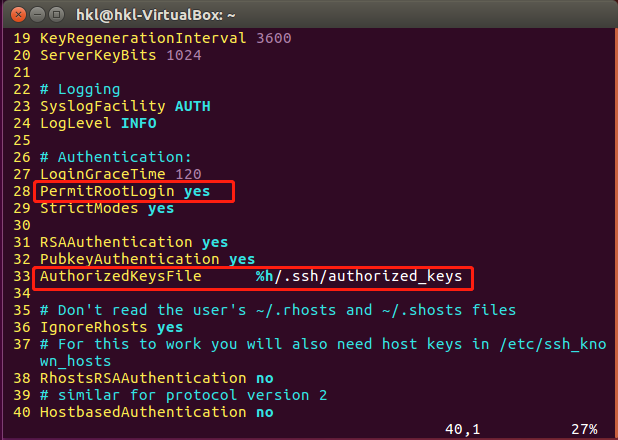
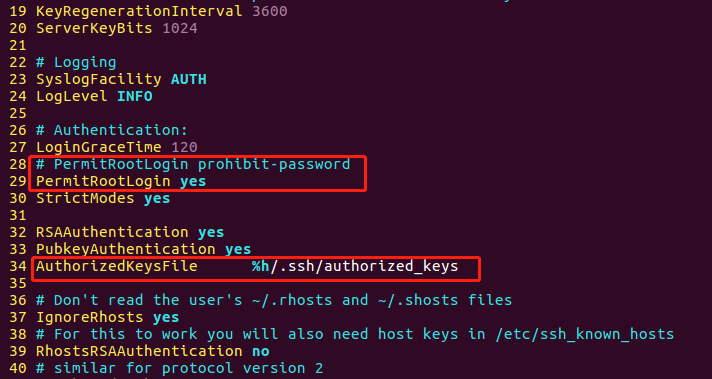
更正脚本代码缺陷，完善实验报告

Changed region(s): [[0.0, 0.0, 1.0, 1.0]]

diff --git a/实验 6/实验6.md b/实验 6/实验6.md
@@ -31,6 +31,10 @@
 
     ![](img/anon_no_up.png)
 
+    - 第一张图中显示，使用ftp必须要切换到相应目录下才能下载文件，而lftp可以指定路径直接下载文件
+
+    ![](img/lftp1.png)
+
 - 配置一个支持用户名和密码方式访问的账号，该账号继承匿名访问者所有权限，且拥有对另1个独立目录及其子目录完整读写（包括创建目录、修改文件、删除文件等）权限
     - 在sammy用户的目录下出现了匿名用户目录下的文件，可证明继承匿名者访问权限
 
@@ -42,9 +46,13 @@
 
     ![](img/rnm_del_mkd.png)
 
-- FTP用户不能越权访问指定目录之外的任意其他目录和文件
+- FTP用户不能越权访问指定目录之外的任意其他目录和文件（**注意**：不是通过 绝对路径 方式来遍历，而是验证通过 相对路径 （例如 cd ../../../../ ）方式无法翻出 FTP 服务器指定的当前用户的 家目录 访问到 家目录及其所有子目录 以外的任何其他目录）
 
     ![](img/no_out.png)
+
+    - 如果需要在命令行使用 FTP 客户端，首选不是 ftp ，而是另一款需要单独安装的 lftp
+
+    ![](img/lftp.png)
 
 - 匿名访问权限仅限白名单IP来源用户访问，禁止白名单IP以外的访问
 
@@ -70,7 +78,7 @@
 
     ![](img/nfs_dh.png)
 
-    - host的`/etc/exports`文件中，设置home目录为可读可写，general目录为只读
+    - host的`/etc/exports`文件中，设置home目录为可读可写，general目录为只读（**注意**：设置home目录为 NFS 共享可读可写是非常危险的一件事情，会破坏 NFS 服务器上用户家目录的权限设置。以后应避免！！）
 
     ```
 
@@ -86,7 +94,8 @@
 
 - 客户端共享目录中文件、子目录的属主、权限信息和在NFS服务器端上查看到的信息一样吗？
 
-    - 客户端与服务器端一致
+    - 客户端与服务器端一致的只是 uid 和 gid ，不同主机上的相同 uid 和 gid 并不意味着映射到相同的 用户名 和 组名
+
     - client
 
     ![](img/home_no_squash_clt.png)
@@ -275,6 +284,9 @@
 
 ## bash-cheatsheet
 
+
+- 因脚本在Windows和Linux系统间拷贝，导致格式问题如“$'\r': command not found”，可以使用如下指令将脚本转换为Linux格式
+    > dos2unix "filename"
 - [How to include file in a bash shell script](https://stackoverflow.com/questions/10823635/how-to-include-file-in-a-bash-shell-script)
 - [Check whether a user exists](https://stackoverflow.com/questions/14810684/check-whether-a-user-exists)
 - [Check if a directory exists in a shell script](https://stackoverflow.com/questions/59838/check-if-a-directory-exists-in-a-shell-script)

diff --git a/实验 6/ssh免密root登录.md b/实验 6/ssh免密root登录.md
@@ -6,9 +6,13 @@
 
     ` sudo service ssh start`
 
-- 更改ssh配置文件 `/etc/ssh/sshd_config`
+- 更改ssh配置文件 `/etc/ssh/sshd_config`，注意保留默认配置和修改痕迹（如果是手工修改配置文件中的默认参数，建议注释掉原始配置后再复制修改原始配置，这样在遇到问题时方便还原到配置之前的状态。）
 
     ![](img/ssh_cfg.png)
+
+    - 生产环境中，一定要注意在开启了 root 用户免密登录配置之后，切记修改配置以禁止任何用户通过口令方式进行 SSH 登录认证，防止帐号破解攻击
+
+    ![](img/a1.png)
 
 
 ### 工作主机配置
